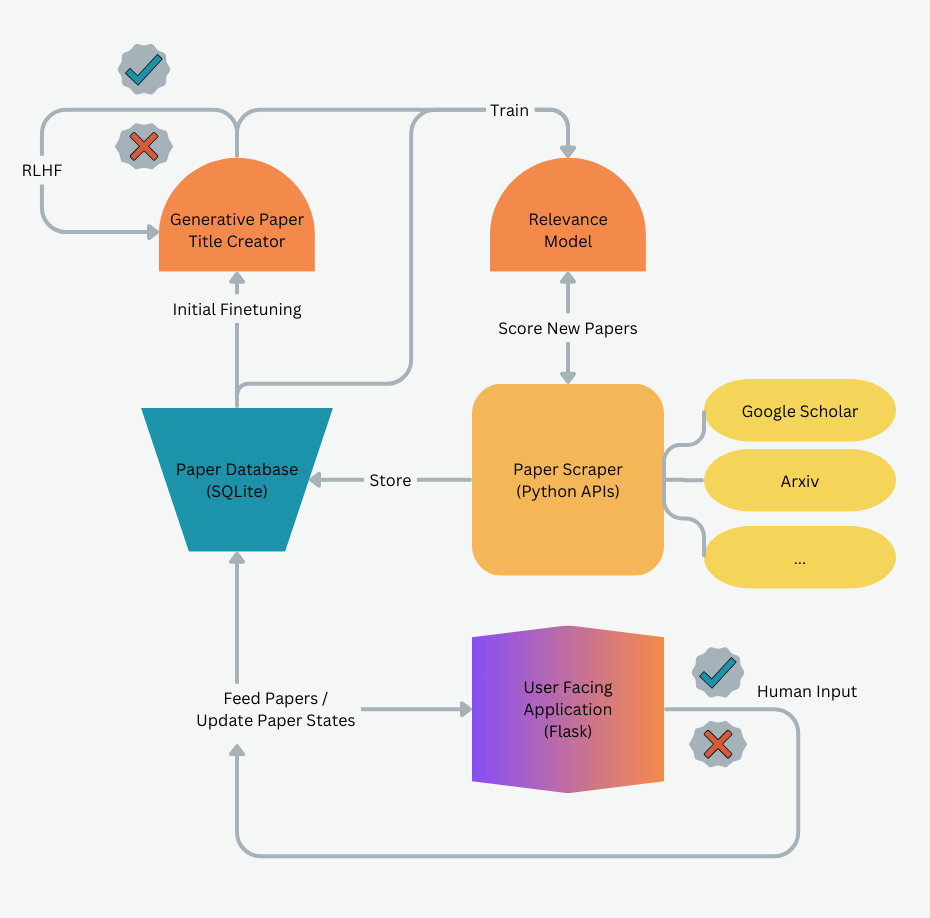
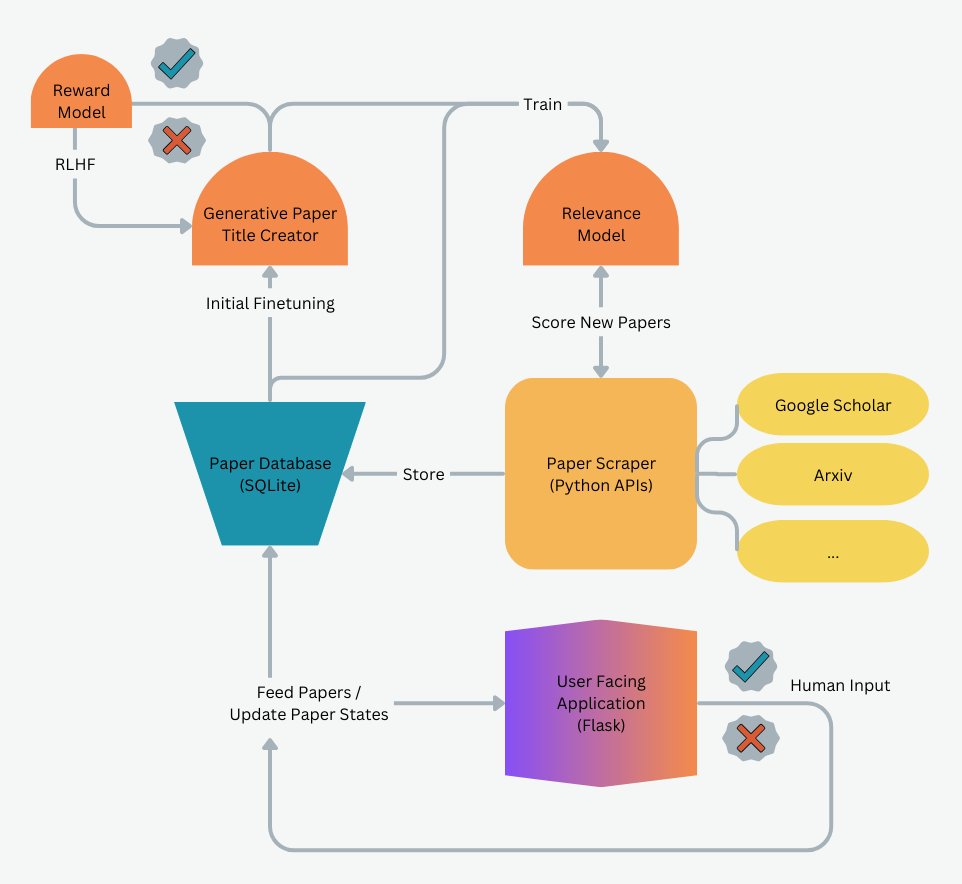
changes

Changed region(s): [[0.0312, 0.0305, 0.9667, 0.9774], [0.6548, 0.1833, 0.686, 0.2138]]

diff --git a/page/public/projects/paperviewer.html b/page/public/projects/paperviewer.html
@@ -115,7 +115,7 @@
             user. This article outlines the technical process behind building the tool, including data ingestion, model
             fine-tuning, and feedback integration, offering insights into how AI can simplify the research workflow.
             <br><br>
-            The code for the generative and classification model training can be found on <a
+            The code for the generative, reward and classification model training can be found on <a
                 href="https://github.com/davencyw/paperviewer-relevance-model">github.com/davencyw/paperviewer-relevance-model</a>.
         </p><br>
     </div>
@@ -326,7 +326,7 @@
                 .
                 <br><br>
                 In the first phase, a generative model like GPT-2<sup><a href="#fn3" id="ref3">3</a></sup> is trained on
-                a limited set of relevant paper titles
+                the full paper database and then on a limited set of relevant paper titles
                 to produce new, synthetic titles that resemble real-world
                 relevant papers. These generated papers are annotated by the user with relevancy
                 scores ranging from -1 to 10. Titles (and abstracts) that are deemed unrealistic are assigned a score of

diff --git a/page/dist/projects/paperviewer.html b/page/dist/projects/paperviewer.html
@@ -260,7 +260,7 @@
                 inverse holds true.
             </p>
             <p>
-                <label for="sn-1" class="sidenote-toggle sidenote-number">Results</label>
+                <label for="sn-1" class="sidenote-toggle sidenote-number">Averaged</label>
                 <input type="checkbox" id="sn-1" class="sidenote-toggle" />
                 <span class="sidenote">
                     The support for the positive class is very limited, with only 200 samples, which makes the results
@@ -268,7 +268,7 @@
                     test/training distribution, the fine-tuning process was repeated 10 times with different
                     test/training splits.
                 </span class="sidenote">
-                on the evaluation dataset:
+                results on the evaluation dataset:
             <pre>
                             <code class="language-python">
                       precision    recall  f1-score   support
